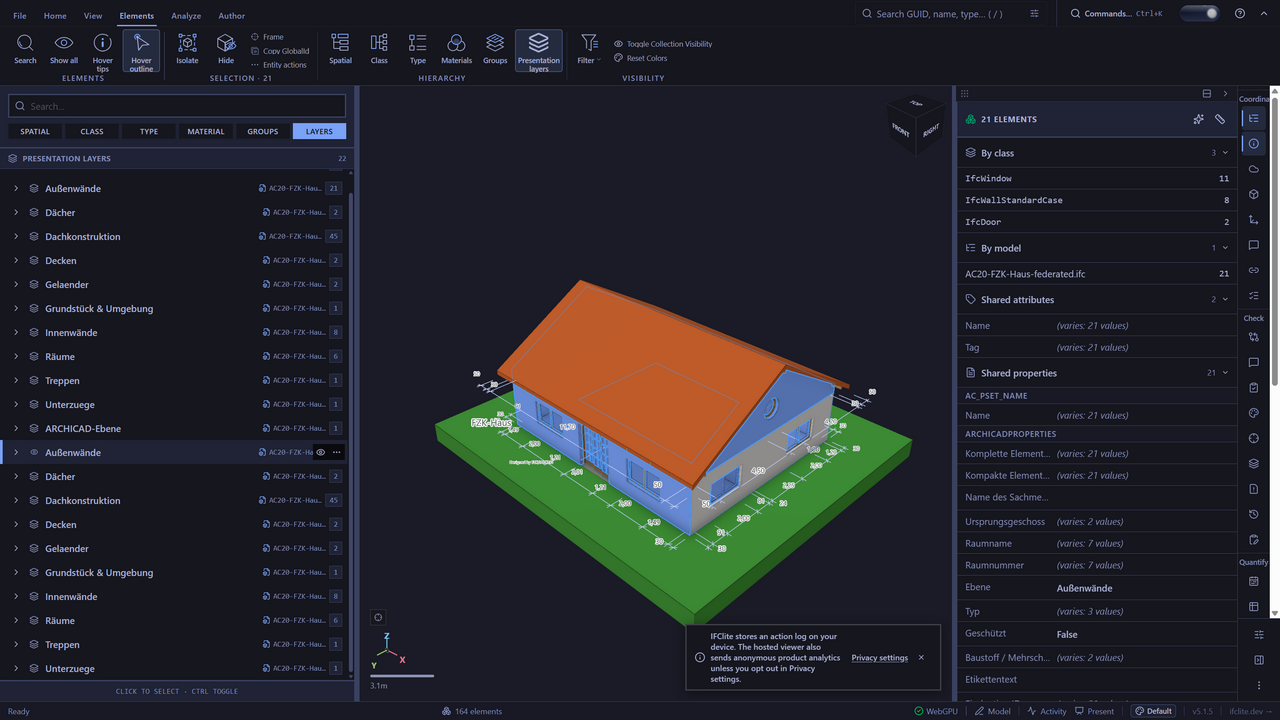
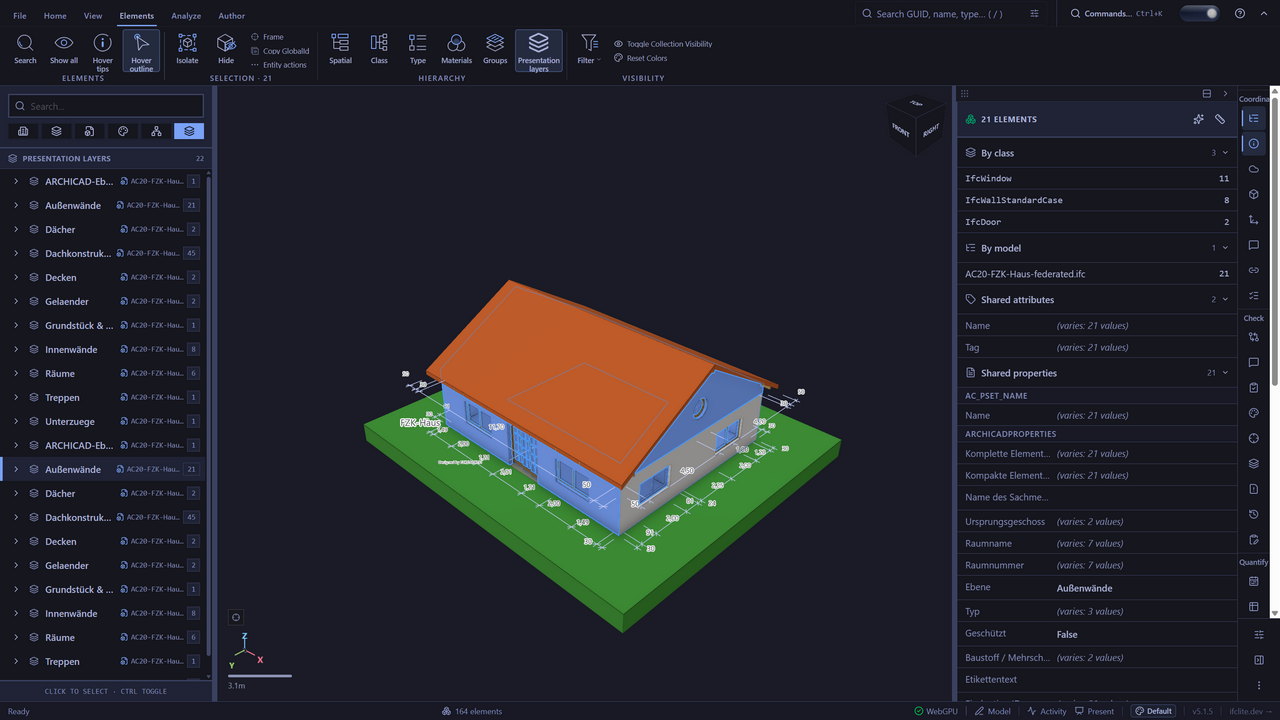
docs: record final ID-space and federation acceptance

Changed region(s): [[0.0, 0.1222, 0.7188, 0.9778], [0.4688, 0.5194, 0.5, 0.55]]

diff --git a/docs/architecture/evidence/presentation-layers-7619/README.md b/docs/architecture/evidence/presentation-layers-7619/README.md
@@ -38,7 +38,7 @@ Validated on 2026-10-15 using the production viewer build and the original corpu
 Validation:
 
 - Root `pnpm typecheck`: all 126 turbo tasks succeeded; audit covers all 4,186 test files in 66 packages.
-- Root `TEST_PATTERN='presentation-layers|presentationLayerTree|rowSelection|HierarchyPanel.(search|reveal|i18n)|HierarchyNode|useEffectiveMaterialStores' pnpm test --filter=@ifc-lite/viewer --concurrency=2 --env-mode=loose`: 90/90 tests passed, none skipped. The dependent production build and chunk-await guard passed.
+- Root `TEST_PATTERN='presentation-layers|presentationLayerTree|rowSelection|HierarchyPanel.(search|reveal|i18n)|HierarchyNode|useEffectiveMaterialStores' pnpm test --filter=@ifc-lite/viewer --concurrency=2 --env-mode=loose`: 91/91 tests passed, none skipped. The dependent production build and chunk-await guard passed.
 - Module-size, localization literals, accessibility ratchet and type-scale gates passed. Root `pnpm lint` passed (10,763 files, 136 rules, no errors); existing warnings remain outside touched files.
 - Independent adversarial review repaired stale visibility labels, spatial-product isolation, shared IFCX attribution/readiness, invalid assignment seeds, nested representation ownership, and mutation decoding. Exact implementation review is recorded in [adversarial-review.md](adversarial-review.md).
 
@@ -55,3 +55,5 @@ Final review found a missing `IfcShapeAspect` ownership route. The resolver now 
 Final source `ac024da3df` also fixes nested generating-curve/profile ownership (including swept-disk directrices and IFC4/IFC4X3 curve wrappers) and mixed visibility actions. Parsed cases verify shared curve owners while excluding products that share the same point only through a placement; inherited operand sets are unioned. The mounted mixed-layer regression verifies Show restores all members before Hide hides them. The final 72-test run, root typecheck, lint and module-size gate passed. In the production browser on the original Archicad fixture, hiding `EG-Fenster-1` made `Außenwände` expose `Show Außenwände`; clicking restored the window, cleared the hidden count and changed both controls to Hide. Clicking the layer Hide then hid 21. [Mixed visibility browser evidence](mixed-visibility.png). The latest bundle measurement pins this final source and still passes unchanged ceilings.
 
 Final acceptance source: `63f74bc84c919788de91c7d5862d9c1621ef2077`. The finite native-geometry audit completed tessellated coordinates/faces, polygon/edge boundaries, spline control points and other supported generating geometry links, with parsed shared-owner, placement-exclusion and cycle/deletion cases. Metadata readiness now distinguishes active loads from settled empty/failed/non-IFC models, preserves available rows while siblings load, suppresses premature empty/search states, and retries outside-selection reveal as metadata arrives. Three mounted progressive-loading regressions cover those transitions. The frozen source passed 90/90 tests (no skips), root typecheck (126 tasks, all4186 test files audited), lint (10763 files, no errors), module-size (6147 files), localization/accessibility/type-scale gates and production chunk-await guard. A fresh production browser run of `main-DEmOrPc7.js` again verified 11 layers/82 elements, 21 selected Außenwände products and Hide/Show of exactly21. [Selected layer](selected-layer.png) now records this final build; the measurement JSON pins this final source.
+
+Final reviewed implementation: `ddf0fc50e0cb4be0367c9ed2d6e01159fc1b9840`. Shared datastores are deduplicated only within the same registered ID offset; a parsed actual-registry regression keeps shared-source models in distinct ID spaces separate, while the existing shared IFCX zero-offset regression still deduplicates aliases. Final root validation passes 91/91 tests with no skips,126 typecheck tasks/all4186 test files audited, lint10763files/noerrors, module6147files and unchanged bundle ceilings. The production browser running `main-wKh-u2Gm.js` reloaded the original Archicad file twice:22 layers/164elements; selecting the second Außenwände selected21 from `AC20-FZK-Haus-federated.ifc`, and the first assignment remained unselected. [Federated selection](federated-selection.png) records this final build. The measurement JSON and independent review report pin this final source.
